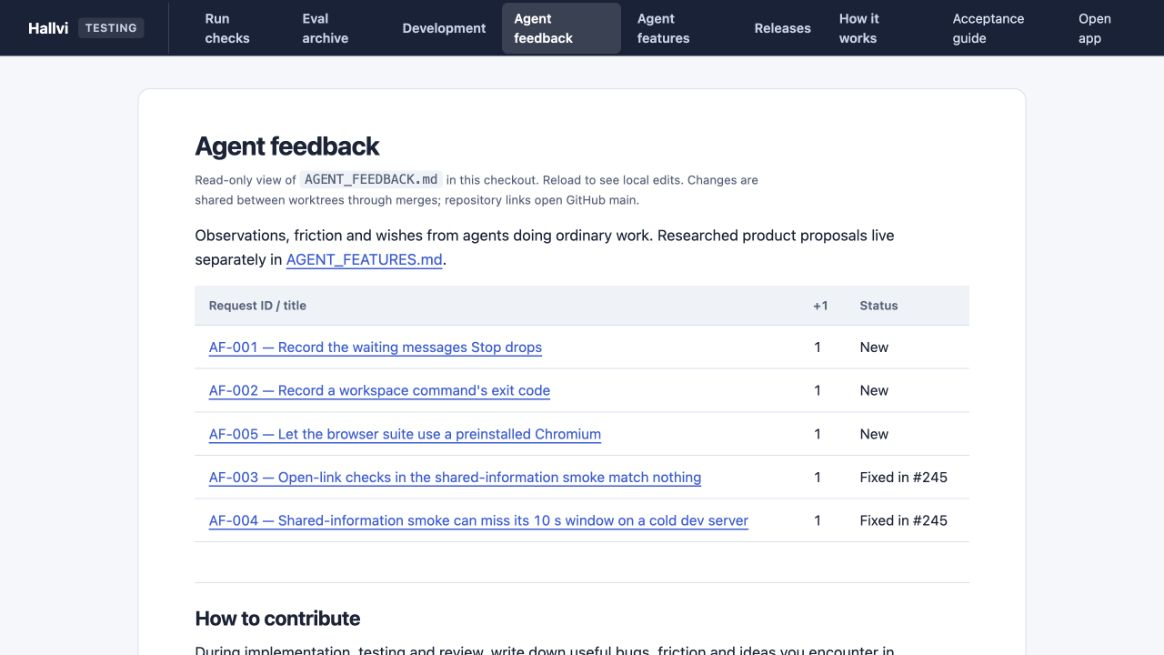
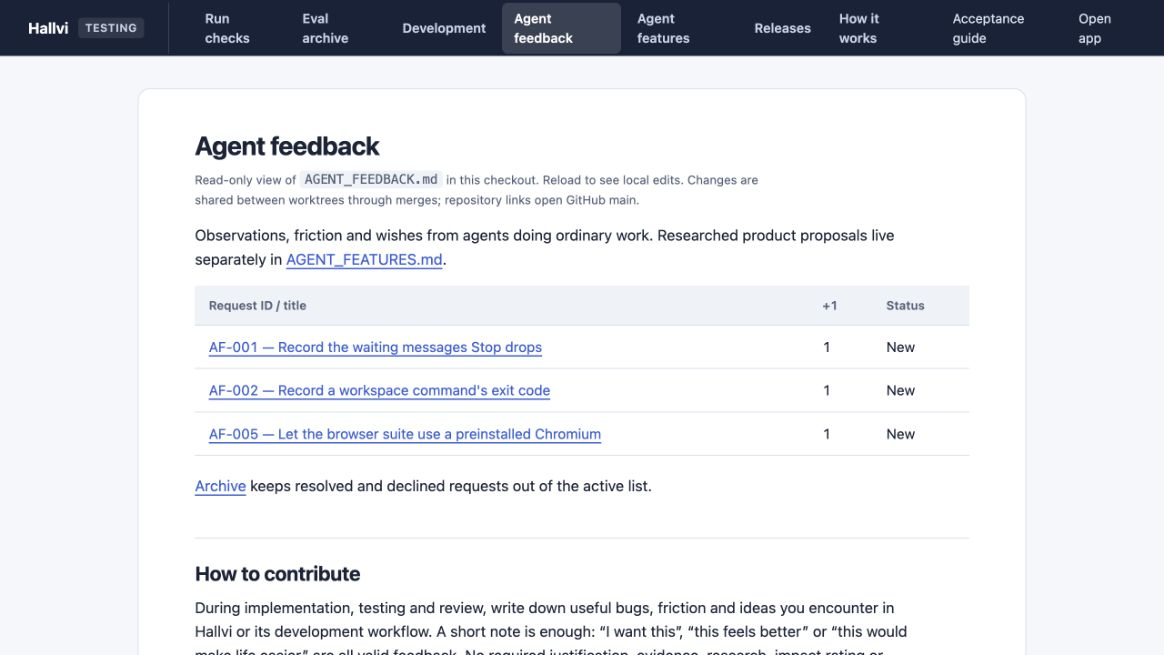
Archive closed feedback and show feature interest votes
Keep resolved requests out of the active dashboard while retaining their entries in a collapsed archive. Add attributed feature vote counts using the same per-task rules as feedback.

diff --git a/tests/dashboard/server.ts b/tests/dashboard/server.ts
@@ -443,11 +443,20 @@ export function createDashboard(root: string, launch: Launch = spawn) {
               ? `https://github.com/${REPOSITORY}/blob/main/`
               : undefined,
           );
-          if (repositoryDocument)
+          if (repositoryDocument) {
+            // Agent documents keep closed entries in a final Archive section.
+            body = body.replace(
+              /<h2 id="archive">Archive<\/h2>([\s\S]*)$/,
+              (_section, archive: string) => {
+                const count = (archive.match(/<h3\b/g) ?? []).length;
+                return `<details class="document-archive" id="archive"><summary>Archive (${count})</summary>${archive}</details>`;
+              },
+            );
             body = body.replace(
               "</h1>",
               `</h1><p class="footnote">Read-only view of <code>${path}</code> in this checkout. Reload to see local edits. Changes are shared between worktrees through merges; repository links open GitHub main.</p>`,
             );
+          }
         } catch (error) {
           const missing = (error as NodeJS.ErrnoException).code === "ENOENT";
           response.statusCode = missing ? 404 : 500;

diff --git a/tests/dashboard/dashboard.css b/tests/dashboard/dashboard.css
@@ -754,6 +754,26 @@ dd {
 .markdown .empty {
   padding: 32px;
 }
+.document-archive {
+  margin-top: 40px;
+  padding-top: 22px;
+  border-top: 1px solid var(--line);
+}
+.document-archive > summary {
+  cursor: pointer;
+  font-size: 20px;
+  font-weight: 600;
+}
+.document-archive > summary:hover {
+  color: var(--blue);
+}
+.document-archive > summary:focus-visible {
+  outline: 2px solid var(--blue);
+  outline-offset: 4px;
+}
+.document-archive[open] > summary {
+  margin-bottom: 18px;
+}
 
 /* How it works */
 .about-block {

diff --git a/AGENT_FEATURES.md b/AGENT_FEATURES.md
@@ -7,11 +7,14 @@ bugs and wishes from ordinary tasks. [Roadmap](ROADMAP.md) owns delivery order.
 
 ## Proposals
 
-| Proposal | Status | Intended result |
-| --- | --- | --- |
-| [Reconnect to a known private application](#reconnect-to-a-known-private-application) | Proposed | Return to the same private route in one action |
-| [Explain current work and interruption](#explain-current-work-and-interruption) | Proposed | Understand the action, target and unknown outcome |
-| [Copy a problem for a coding agent](#copy-a-problem-for-a-coding-agent) | Proposed | Hand over enough evidence to reproduce and repair a defect |
+| Proposal | +1 | Status | Intended result |
+| --- | --- | --- | --- |
+| [Reconnect to a known private application](#reconnect-to-a-known-private-application) | 1 | Proposed | Return to the same private route in one action |
+| [Explain current work and interruption](#explain-current-work-and-interruption) | 1 | Proposed | Understand the action, target and unknown outcome |
+| [Copy a problem for a coding agent](#copy-a-problem-for-a-coding-agent) | 1 | Proposed | Hand over enough evidence to reproduce and repair a defect |
+
+Votes show interest, not priority or approval. Each count comes from the task
+references in that proposal, including its initial proposal task.
 
 These are candidates from the [29 September intake](docs/research/2026-09-29-feature-intake.md),
 which rechecked the existing research in [PR #246](https://github.com/lustoykov/hallvi/pull/246)
@@ -39,6 +42,8 @@ Distinguish closed tunnel, SSH failure and an application that does not answer.
 **Open decisions:** Owner selection; bypassing Pi would require a separate contract.
 **Assignment:** Unassigned.
 
+**+1:** 2026-09-29 — initial feature intake, [PR #253](https://github.com/lustoykov/hallvi/pull/253)
+
 ### Explain current work and interruption
 
 **Status:** Proposed
@@ -57,6 +62,8 @@ matching evidence and existing continuation behavior on disposable state.
 
 **Open decisions:** Owner selection and wording; user benefit is not yet measured.
 **Assignment:** Unassigned. Coordinate shared code with #248/#249.
+
+**+1:** 2026-09-29 — initial feature intake, [PR #253](https://github.com/lustoykov/hallvi/pull/253)
 
 ### Copy a problem for a coding agent
 
@@ -78,6 +85,8 @@ the original behavior check passes against the observed running revision.
 **Open decisions:** Owner selection and packet contract; test redaction and
 omissions. Saving a procedure does not authorize execution.
 **Assignment:** Unassigned.
+
+**+1:** 2026-09-29 — initial feature intake, [PR #253](https://github.com/lustoykov/hallvi/pull/253)
 
 ## Research workflow
 
@@ -117,6 +126,9 @@ names the assigned task and branch/PR. **Done** links a merged implementation an
 its verification. **Declined** preserves the owner's decision and reason if given.
 Research may identify shipped work, but must not silently promote an idea to Ready
 or reopen a declined decision. A research-plan PR is not an implementation PR.
+Move Done and Declined proposals out of the active overview into a final Archive
+section, retaining their rows, full entries, votes and decision/verification
+references. The dashboard collapses that section by default.
 
 When the owner assigns a feature, record its task/branch before dispatching so
 two agents do not take the same work. Follow the linked scope and acceptance
@@ -128,8 +140,13 @@ check open PRs as well as this checkout before assigning work.
 ## Entry format
 
 Use a short stable slug as the heading and link it from the overview table.
-Search merged and open proposals before adding one. These slugs belong to this
-file; feedback keeps its separate `AF-NNN` identifiers and +1 counts.
+Search merged and open proposals, including archived ones, before adding one.
+Add a dated **+1** with the task ID or PR reference when an independent task
+wants an existing proposal. Count once per task, including the initial proposal;
+retries, multiple agents and multiple PRs in that task do not add votes. Agreement
+needs no new research. Recount from those references and sort the active overview
+by count. Do not copy feedback votes across automatically: these slugs and votes
+belong to this file; feedback keeps its separate `AF-NNN` identifiers and counts.
 
 ```markdown
 ### Short feature title
@@ -141,6 +158,8 @@ file; feedback keeps its separate `AF-NNN` identifiers and +1 counts.
 **Acceptance:** Observable behavior that would establish completion.
 **Open decisions:** Uncertainty or a choice that still needs the owner.
 **Assignment:** Owner instruction, task/branch and PR when they exist.
+
+**+1:** YYYY-MM-DD — task ID or PR reference
 ```
 
 These files and research instructions are contributor material. Never load them

diff --git a/AGENT_FEEDBACK.md b/AGENT_FEEDBACK.md
@@ -8,8 +8,8 @@ product proposals live separately in [AGENT_FEATURES.md](AGENT_FEATURES.md).
 | [AF-001 — Record the waiting messages Stop drops](#af-001--record-the-waiting-messages-stop-drops) | 1 | New |
 | [AF-002 — Record a workspace command's exit code](#af-002--record-a-workspace-commands-exit-code) | 1 | New |
 | [AF-005 — Let the browser suite use a preinstalled Chromium](#af-005--let-the-browser-suite-use-a-preinstalled-chromium) | 1 | New |
-| [AF-003 — Open-link checks in the shared-information smoke match nothing](#af-003--open-link-checks-in-the-shared-information-smoke-match-nothing) | 1 | Fixed in #245 |
-| [AF-004 — Shared-information smoke can miss its 10 s window on a cold dev server](#af-004--shared-information-smoke-can-miss-its-10-s-window-on-a-cold-dev-server) | 1 | Fixed in #245 |
+
+[Archive](#archive) keeps resolved and declined requests out of the active list.
 
 ## How to contribute
 
@@ -42,14 +42,17 @@ Keep credentials and private application data out of entries and linked material
    the same task do not add votes.
 3. Give a new request the next unused `AF-NNN` ID, a short title and a brief
    description. Add a linked overview row with count `1` and status `New`.
-4. Recount +1s from the task references and sort active requests by count, with
-   closed requests below. Count is interest, not priority. Reconcile duplicate
-   requests and ID collisions before merging; never reuse a merged ID.
+4. Recount +1s from the task references and sort active requests by count.
+   Move resolved or declined requests out of the active overview and into the
+   final Archive section, including their overview rows, full entries, votes
+   and fix/decision references. Count is interest, not priority. Reconcile
+   duplicate requests and ID collisions before merging; never reuse a merged ID.
 
 **Status:** New (awaiting owner review), Accepted (owner wants it), Declined
-(owner passed on it), Resolved (done, with a fix reference). Preserve closed
-entries. If you want to revisit one, add your feedback and flag it for the owner
-rather than changing their decision.
+(owner passed on it), Resolved (done, with a fix reference). The dashboard
+collapses the Archive by default. Preserve closed entries there; if you want
+to revisit one, add your feedback and flag it for the owner rather than
+changing their decision.
 
 ## Requests
 
@@ -81,6 +84,23 @@ both if the workspace kept the code too.
 
 **+1:** 2026-09-28 — hallvi CLI task, [PR #241](https://github.com/lustoykov/hallvi/pull/241)
 
+### AF-005 — Let the browser suite use a preinstalled Chromium
+
+The cloud container ships Playwright's Chromium 1194 and does not allow
+downloading browsers, while the repository pins `@playwright/test` 1.62.1,
+which expects Chromium 1234. Running the suite there took a wrapper config
+that sets `launchOptions.executablePath`. An environment variable read in
+`tests/browser/playwright.config.ts` would make that one setting.
+
+**+1:** 2026-09-29 — typed-information smoke fix, PR #245
+
+## Archive
+
+| Request ID / title | +1 | Status |
+| --- | --- | --- |
+| [AF-003 — Open-link checks in the shared-information smoke match nothing](#af-003--open-link-checks-in-the-shared-information-smoke-match-nothing) | 1 | Fixed in #245 |
+| [AF-004 — Shared-information smoke can miss its 10 s window on a cold dev server](#af-004--shared-information-smoke-can-miss-its-10-s-window-on-a-cold-dev-server) | 1 | Fixed in #245 |
+
 ### AF-003 — Open-link checks in the shared-information smoke match nothing
 
 Before this fix, `tests/browser/typed-information.spec.ts` checked that a closed
@@ -109,13 +129,3 @@ and the badge showed 0.9 s after load. GitHub Actions passed the spec in
 **+1:** 2026-09-29 — typed-information smoke fix, PR #245
 
 Resolved in #245: warm the five existing read routes before interaction deadlines begin.
-
-### AF-005 — Let the browser suite use a preinstalled Chromium
-
-The cloud container ships Playwright's Chromium 1194 and does not allow
-downloading browsers, while the repository pins `@playwright/test` 1.62.1,
-which expects Chromium 1234. Running the suite there took a wrapper config
-that sets `launchOptions.executablePath`. An environment variable read in
-`tests/browser/playwright.config.ts` would make that one setting.
-
-**+1:** 2026-09-29 — typed-information smoke fix, PR #245

diff --git a/tests/README.md b/tests/README.md
@@ -115,6 +115,6 @@ The live model evals are gone. Their runner was retired with the workflow it tes
 
 Answers saved by earlier runs are untouched and still readable: the dashboard's Eval archive reads them, shows the judgments that were made at the time, and takes your own verdict. New live deployment evals follow provisioning and will be written against the operator that exists.
 
-`npm run dev` starts a local testing dashboard paired with that checkout's app; each worktree gets its own local ports, printed at startup, and the two interfaces link to each other. `npm run test:dashboard` remains available for running the dashboard alone on port 4317. It starts the application tests, the browser smoke subset and the browser journeys, and nothing it starts makes a model call or costs anything. Four further pages report rather than run: **Agent feedback** reads this checkout’s `AGENT_FEEDBACK.md`, including request counts, statuses and notes; **Agent features** reads `AGENT_FEATURES.md`, with researched proposals, selection and assignment. Both document pages reload local edits and share changes through merges; repository links open GitHub main. **Development** says which checkout the paired Hallvi is actually serving, which database it opened and at what schema, the retained sample applications registered on this machine and the copies taken of their records; **Releases** says what a release would be built from, what a built archive actually contains, and which draft is waiting. Building and publishing there are narrow wrappers around the `gh` login already on this machine, and these pages do not exist in a packaged Hallvi: `scripts/package.mjs` copies an allowlist, and `tests/` is not on it. Local tooling can still fail silently or affect data, credentials and spending: its location is not an exemption from the 80/20 bar. Check the relevant behavior when changing these tools; add a focused regression only when a concrete risk warrants it.
+`npm run dev` starts a local testing dashboard paired with that checkout's app; each worktree gets its own local ports, printed at startup, and the two interfaces link to each other. `npm run test:dashboard` remains available for running the dashboard alone on port 4317. It starts the application tests, the browser smoke subset and the browser journeys, and nothing it starts makes a model call or costs anything. Four further pages report rather than run: **Agent feedback** reads this checkout’s `AGENT_FEEDBACK.md`, with active requests, +1 counts, statuses and notes; **Agent features** reads `AGENT_FEATURES.md`, with researched proposals, +1 interest counts (not priority or approval), statuses, owner selection and assignment. Both document pages collapse a final Archive behind its entry count, preserving closed entries and their links; they reload local edits and share changes through merges, and repository links open GitHub main. **Development** says which checkout the paired Hallvi is actually serving, which database it opened and at what schema, the retained sample applications registered on this machine and the copies taken of their records; **Releases** says what a release would be built from, what a built archive actually contains, and which draft is waiting. Building and publishing there are narrow wrappers around the `gh` login already on this machine, and these pages do not exist in a packaged Hallvi: `scripts/package.mjs` copies an allowlist, and `tests/` is not on it. Local tooling can still fail silently or affect data, credentials and spending: its location is not an exemption from the 80/20 bar. Check the relevant behavior when changing these tools; add a focused regression only when a concrete risk warrants it.
 
 Install Chromium with `npx playwright install chromium`. Browser fixtures run on 3180+ with synthetic credentials; they never open the normal application database. Failure artifacts and the rich-card screenshots are under `tests/results/`. The workspace Docker test is opt-in and requires a reachable engine.

diff --git a/tests/dashboard/DESIGN.md b/tests/dashboard/DESIGN.md
@@ -120,11 +120,21 @@ read-only document pages with their own links in the existing navy topbar. The
 current document link carries `aria-current="page"`; both pages preserve the
 Acceptance guide reading layout and typography. Feedback renders
 `AGENT_FEEDBACK.md`, the raw observations, bugs and wishes collected during
-ordinary tasks, with its request table, +1 counts and statuses. Features renders
-`AGENT_FEATURES.md`, which owns researched proposals, proposal status and the
-owner's selection and assignment. Both render their canonical local file on every
-request, preserving tables and fragment links to headings. Reloading shows local
-edits; changes move between worktrees through merges. Repository links open
-GitHub main. A missing or unreadable file keeps the shell and shows a recovery
-message to check the file and reload. These pages add no editing controls or
-visual system changes.
+ordinary tasks, with its active request table, +1 counts and statuses. Features
+renders `AGENT_FEATURES.md`, which owns researched proposals, proposal status and
+the owner's selection and assignment. Its overview shows +1 counts backed by
+references to independent tasks; votes express interest, not priority or approval.
+
+Closed feedback and Done or Declined features live in a final `Archive` section,
+preserving their original entries, votes and fix or decision references. Either
+document's archive renders as a native disclosure, collapsed by default, with the
+entry count in its summary. It keeps the existing heading styles and visible
+keyboard focus; Return toggles it. Original fragment IDs remain intact, and a
+link to an archived heading reveals the entry. The disclosure uses no client
+script; manual expansion is not persisted across reloads.
+
+Both pages render their canonical local file on every request, preserving tables
+and fragment links to headings. Reloading shows local edits; changes move between
+worktrees through merges. Repository links open GitHub main. A missing or
+unreadable file keeps the shell and shows a recovery message to check the file
+and reload. These pages add no editing controls or visual system changes.
